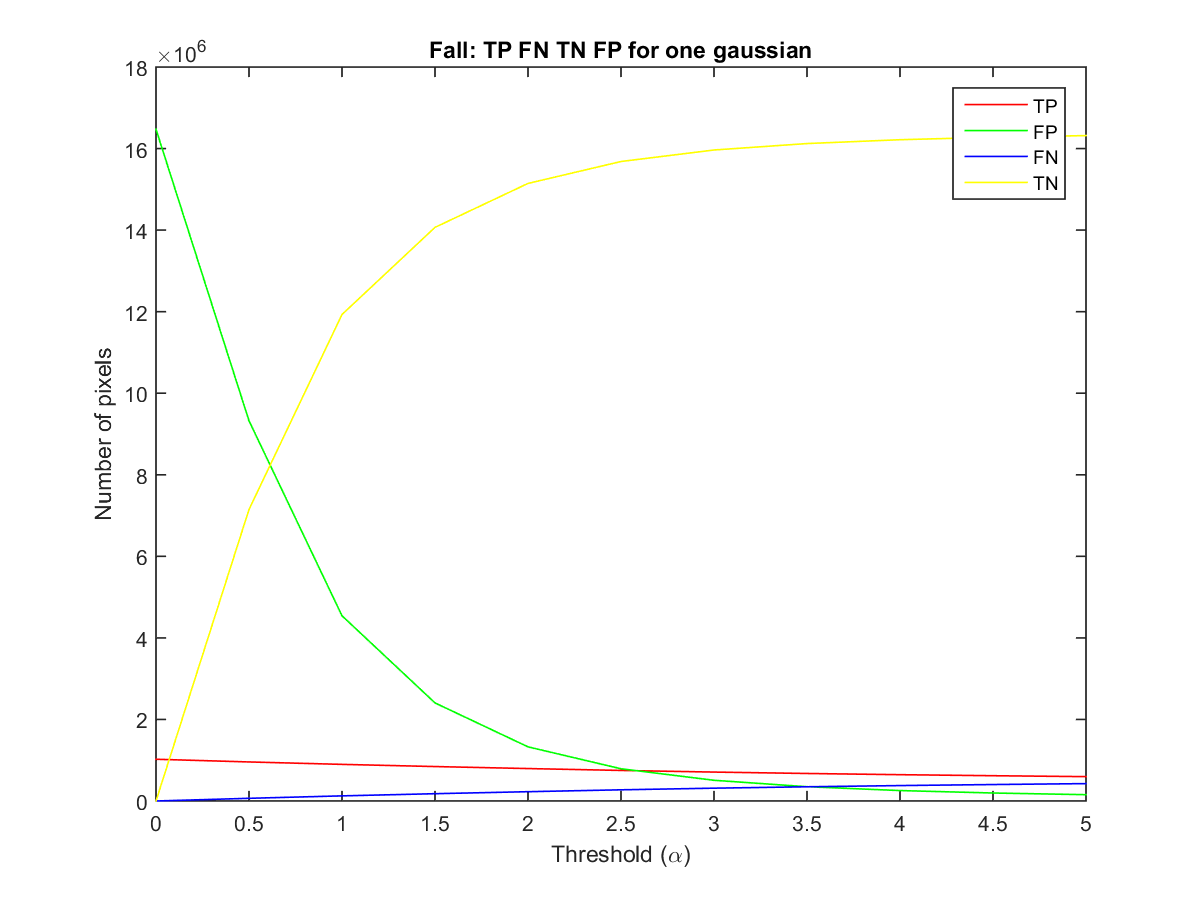
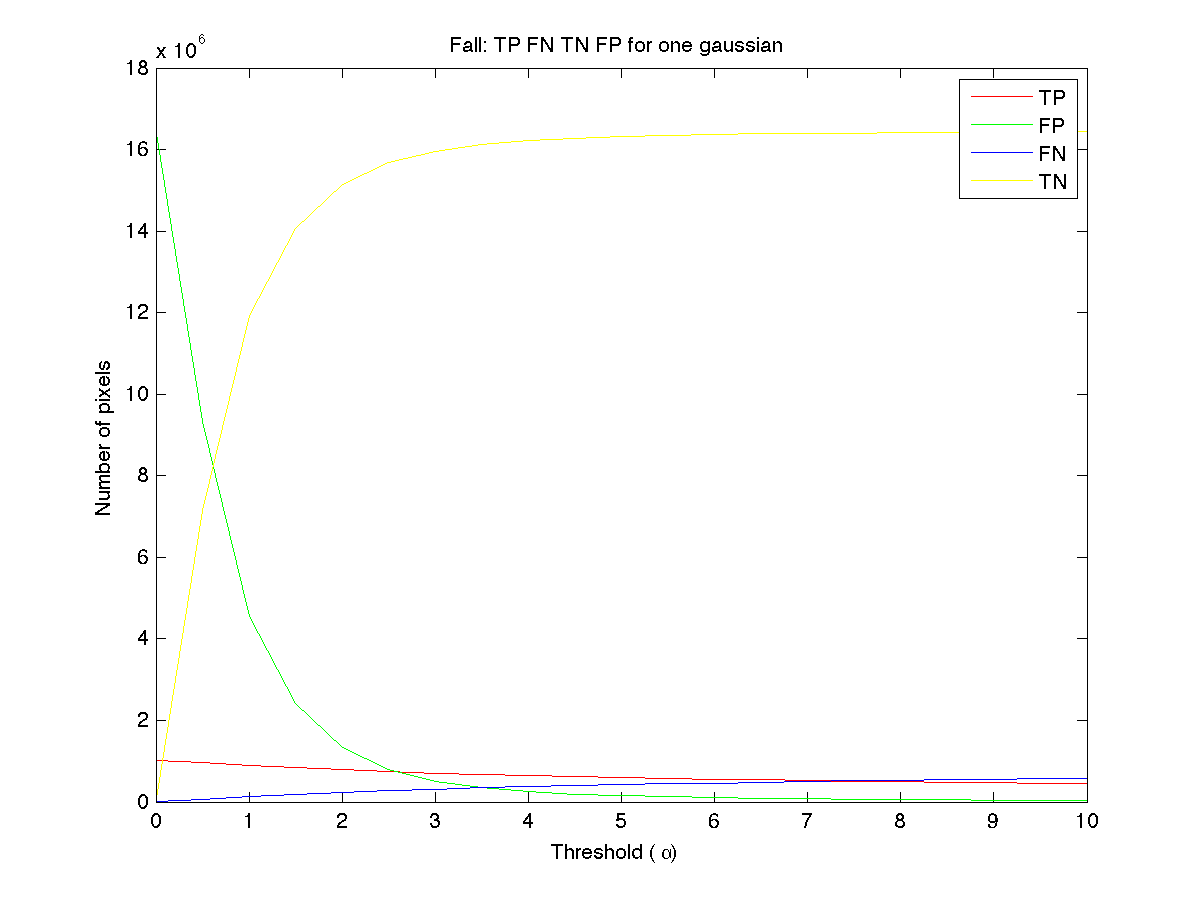
Figures task 2

diff --git a/block2/src/main.m b/block2/src/main.m
@@ -79,7 +79,7 @@ oneGaussianBackground( traffic , pathTrafficInput , fileFormat , pathTrafficResu
 
 offsetDesynch = 0; % offsetDesynch = 0 --> Synchronized
 
-minAlpha = 0; stepAlpha = 0.5; maxAlpha = 5;
+minAlpha = 0; stepAlpha = 0.5; maxAlpha = 10;
 thresholdAlpha = minAlpha:stepAlpha:maxAlpha;
 szMetrics = length(thresholdAlpha); count = 1;
 
